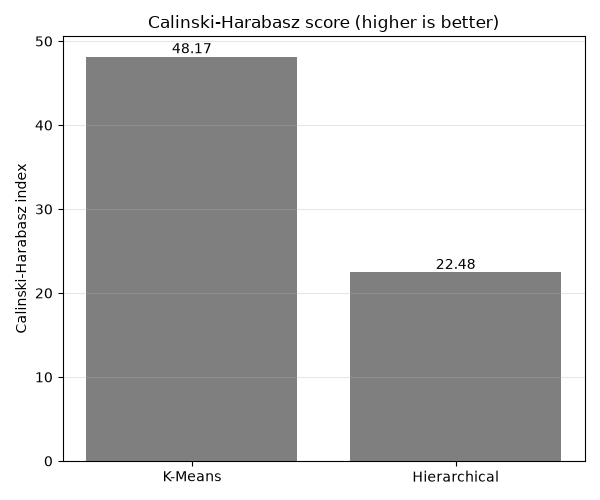
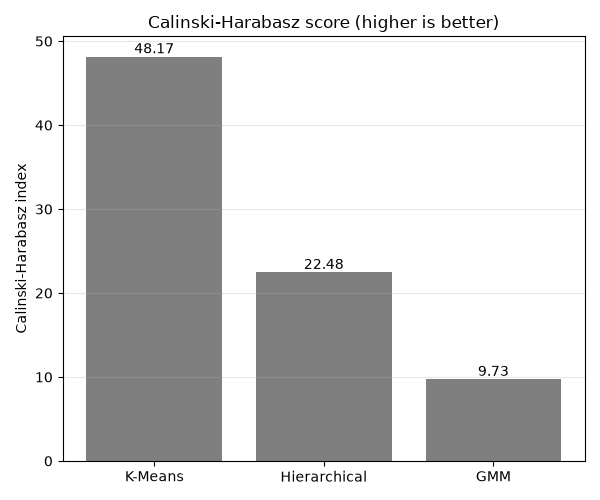
feat: labels added

Changed region(s): [[0.21, 0.09, 0.63, 0.96], [0.63, 0.51, 0.96, 0.96], [0.21, 0.93, 0.36, 0.96]]

diff --git a/methods/gmm.py b/methods/gmm.py
@@ -7,6 +7,7 @@ from data.clean_data import get_data
 from methods.kmeans import kmeans
 
 NUM_OF_VALUES = 4
+TOLERANCE = 10e-4
 
 # Create a matrix that corresponds to their current label
 # Returns centroid_probability as weights
@@ -24,7 +25,7 @@ def initial_covariance_matrix(X, final_centroids, labels, k):
         for label in labels:
             if (label == i):
                 label_counter += 1
-                clusters.append(X[i])
+                clusters.append(fake_copy(X[i]))
         centroid_probability = label_counter / len(labels)
         # To be multiplied to current_matrix after getting sum of every new matrix
         cluster_spot = 1 / label_counter
@@ -56,28 +57,27 @@ def gaussian_mixture_model():
     # Initialize mean vector, weight, and covariance matrix after k-means
     mean_vector, weights, label_matrix = initial_covariance_matrix(X, final_centroids, labels, k)
 
-    while(iteration != 10):
+    while(iteration != 2):
+        responsibility = 0
         print("Iteration:", iteration)
     # Find the responsibility
-        responsibility = expectation_stage(X, mean_vector, weights, label_matrix, k, iteration)
-
+        density, responsibility = expectation_stage(X, mean_vector, weights, label_matrix, k)
     # Update the weights
         mean_vector, weights, label_matrix = maximization_stage(X, mean_vector, weights, labels, responsibility, k)
         iteration += 1
-
-    print(mean_vector, weights, label_matrix)
-    return 
+    assign_labels(X, density, labels)
+    print("Mean Vector: ", mean_vector)
+    print("Weights: ", weights)
+    print("Convergence Matrices: ", label_matrix)
+    print_labels(name, labels)
+    return labels
 
 # Set the probabilities of each data point
-def expectation_stage(X, final_centroids, weights, label_matrix, k, iteration):
+def expectation_stage(X, final_centroids, weights, label_matrix, k):
     # Every final centroid has a fixed set of determinant and inverse
     # To be used for every responsibility of X
     determinants = []
     inverses = []
-    if (iteration == 1):
-        div = 10e13
-    else:
-        div = 1
     for i in range(0, k):
         determinants.append(np.linalg.det(label_matrix[i]))
         inverses.append(np.linalg.inv(label_matrix[i]))
@@ -86,32 +86,31 @@ def expectation_stage(X, final_centroids, weights, label_matrix, k, iteration):
     data_responsibility = []
     e = math.e
     pi = math.pi
-    counter = 0
     for data in X:
         current_density = []
         current_responsibility = []
-        
+        new_data = fake_copy(data)
         for i in range(0, k):
             smd = 0
             density_nominator = 0
             density_denominator = 0
             for j in range(0, NUM_OF_VALUES):
-                data[j] -= final_centroids[i][j]
-            one_matrix = np.array([data])
+                new_data[j] = new_data[j] - final_centroids[i][j]
+            one_matrix = np.array([new_data])
             # Squared Mahanabolis Distance
             smd = one_matrix @ inverses[i] @ one_matrix.T
             # Density formula
             # Probability that X happens on current cluster
             # Current number is too low without dividing by 10^13
-            density_nominator = Decimal(1 * e ** (-1/2 * smd[0][0] / div))
+            density_nominator = Decimal(1 * e ** (-1/2 * smd[0][0] / 10e13))
             density_denominator = Decimal((2 * pi)**(NUM_OF_VALUES/2) * (determinants[i] ** 1/2))
             density = float(density_nominator / density_denominator)
+            print(density)
             current_density.append(density)
             current_responsibility.append(density * weights[i])
         data_density.append(current_density)
         data_responsibility.append(current_responsibility)
-        counter += 1
-    return data_responsibility
+    return data_density, data_responsibility
         
 # Calculate the likelihood that a data point exists with a particular cluster
 def maximization_stage(X, mean_vector, weights, labels, responsibility, k):
@@ -122,23 +121,23 @@ def maximization_stage(X, mean_vector, weights, labels, responsibility, k):
     for y in responsibility:
         for i in range(0, k):
             responsibility_sum[i] = responsibility_sum[i] + y[i]
+
     # Creates new weight
     for i in range(0, k):
         if (responsibility_sum[i] == 0):
             weights[i] = 0
         else:
-            weights[i] = responsibility_sum[i] / len(X)
+            weights[i] = responsibility_sum[i] / (len(X) * 10e4)
     # Creates new mean vector
     for i in range(0, k):
         mat = np.zeros((NUM_OF_VALUES, 1))
         for j in range(0, len(X)):
-            if (labels[j] == i):
-                current_mat = np.array([X[j]])
-                add_mat = current_mat.T
-                mat = mat + add_mat
+            current_mat = np.array([fake_copy(X[j])])
+            add_mat = current_mat.T * responsibility[j][i]
+            mat = mat + add_mat
         if (responsibility_sum[i] != 0):
-            mat = mat * (1/responsibility_sum[i])
-            mean_vector[i] = [float(mat[0][0]), float(mat[1][0]), float(mat[2][0]), float(mat[3][0])]
+            mat = mat * (1/(responsibility_sum[i]))
+            mean_vector[i] = [float(mat[0][0]) / 10e4, float(mat[1][0]) / 10e4, float(mat[2][0]) / 10e4, float(mat[3][0]) / 10e4]
         else:
             mean_vector[i] = 0
     # Creates new covariance matrix
@@ -150,7 +149,7 @@ def maximization_stage(X, mean_vector, weights, labels, responsibility, k):
         e_identity = np.eye(NUM_OF_VALUES, dtype = float) * 10**-6
         for j in range(0, len(X)):
             if (labels[j] == i):
-                clusters.append(X[j])
+                clusters.append(fake_copy(X[j]))
                 counter += 1
         for cluster in clusters:
             for j in range(0, NUM_OF_VALUES):
@@ -165,4 +164,26 @@ def maximization_stage(X, mean_vector, weights, labels, responsibility, k):
         else:
             current_matrix = np.zeros((NUM_OF_VALUES, NUM_OF_VALUES))
         label_matrix.append(current_matrix)
+    print(mean_vector)
     return mean_vector, weights, label_matrix
+
+# Prevents overwriting X data
+def fake_copy(data):
+    new_data = []
+    for i in range(0, NUM_OF_VALUES):
+        new_data.append(data[i] + 0)
+    return new_data
+
+def assign_labels(data, density, labels):
+    for i in range(0, len(data)):
+        highest = 0
+        for d in density[i]:
+            if (highest < d):
+                highest = d
+        index = density[i].index(highest)
+        if (index != labels[i]):
+            labels[i] = index
+
+def print_labels(name, labels):
+    for i in range(len(name)):
+        print(name[i][1], ":" ,labels[i])

diff --git a/main.py b/main.py
@@ -10,9 +10,11 @@ names, X, Z = get_data("data/dataset.csv")
 labels = runkmeans()
 result = run_hierarchicalClustering("data/dataset.csv", 3)
 labels2 = result["labels"]
+labels3 = gaussian_mixture_model()
 
 ch_kmeans = calinski_harabasz(Z, labels)
 ch_hierarchical = calinski_harabasz(Z, labels2)
+ch_gmm = calinski_harabasz(Z, labels3)
 
 print("EVALUATION RESULTS OF METHODS")
 print("KMEANS")
@@ -22,12 +24,13 @@ print("Calinski-Harabasz: ", ch_kmeans)
 print("Hierarchical")
 print("Calinski-Harabasz: ", ch_hierarchical)
 
-gaussian_mixture_model()
+print("Gaussian Mixture Model")
+print("Calinski-Harabasz: ", ch_gmm)
 
 # Plot the results (saved in figures/)
 plot_results(
     names,
     X,
-    {"K-Means": labels, "Hierarchical": labels2},
-    {"K-Means": ch_kmeans, "Hierarchical": ch_hierarchical},
+    {"K-Means": labels, "Hierarchical": labels2, "GMM": labels3},
+    {"K-Means": ch_kmeans, "Hierarchical": ch_hierarchical, "GMM": ch_gmm},
 )
